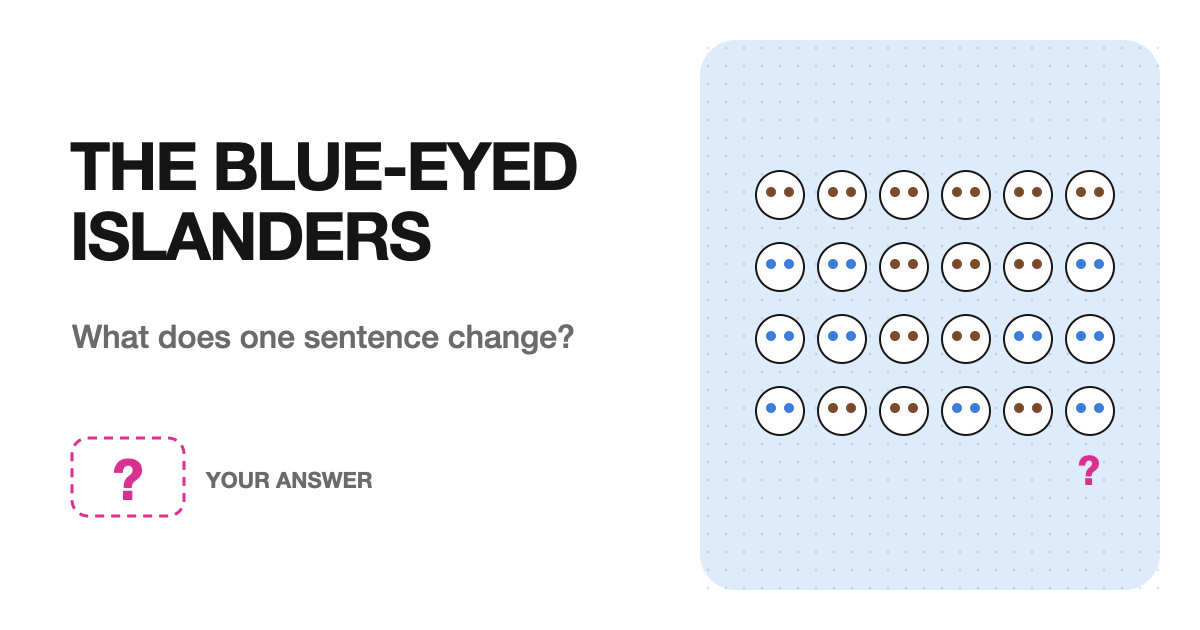
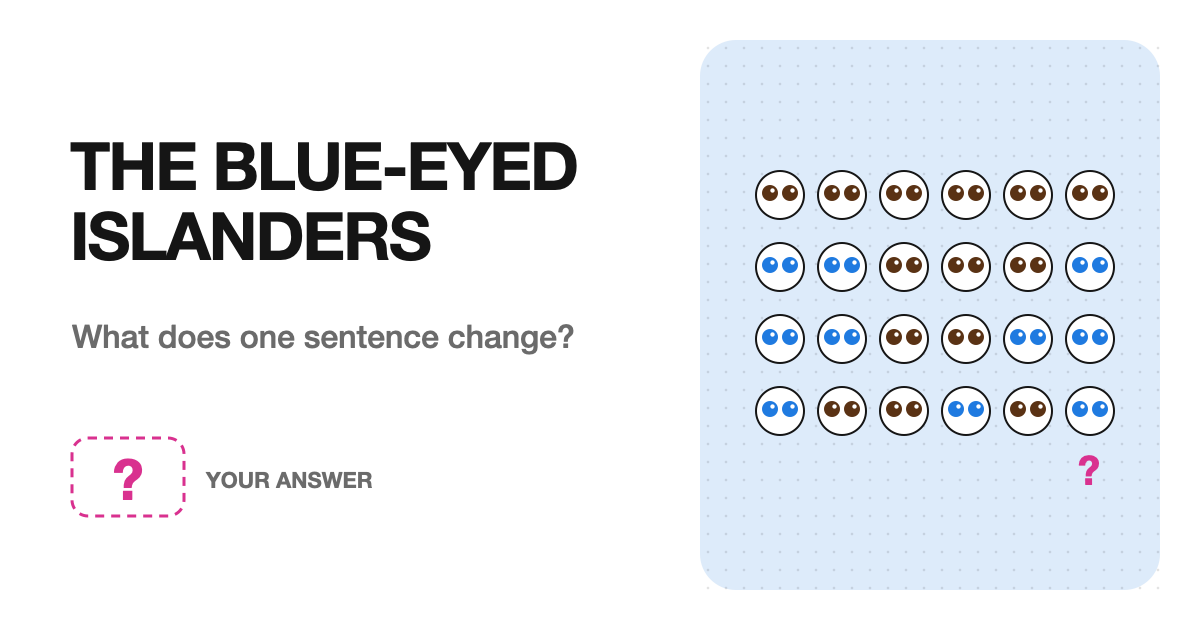
Blue-eyed islanders OG: bigger, more distinct blue and brown eyes

diff --git a/tools/og.py b/tools/og.py
@@ -550,10 +550,12 @@ def extra_visual(kind, x, y, lang="en"):
         for j in range(4):
             for i in range(6):
                 px, py = x + 40 + i * 62, y + 30 + j * 72
-                eye = "#3B7DD8" if rnd.random() < .5 else "#7A4A2A"
-                out += [f'<circle cx="{px}" cy="{py}" r="24" fill="#fff" stroke="{INK}" stroke-width="2"/>',
-                        f'<circle cx="{px - 9}" cy="{py - 3}" r="5" fill="{eye}"/>',
-                        f'<circle cx="{px + 9}" cy="{py - 3}" r="5" fill="{eye}"/>']
+                # big irises in a bright blue and a near-black brown, so the two read apart even on a small card
+                eye = "#1F7AE0" if rnd.random() < .5 else "#5A3214"
+                out.append(f'<circle cx="{px}" cy="{py}" r="24" fill="#fff" stroke="{INK}" stroke-width="2"/>')
+                for d in (-10, 10):
+                    out += [f'<circle cx="{px + d}" cy="{py - 2}" r="8" fill="{eye}"/>',
+                            f'<circle cx="{px + d + 2.5}" cy="{py - 4.5}" r="2.2" fill="#fff"/>']
         out.append(f'<text x="{x + 360}" y="{y + 320}" text-anchor="end" font-family="{FONT}" font-weight="800" font-size="40" fill="{SIGNAL}">?</text>')
     elif kind == "twenty-five-horses":
         # five lanes of five numbered horses; the number of races is the answer
